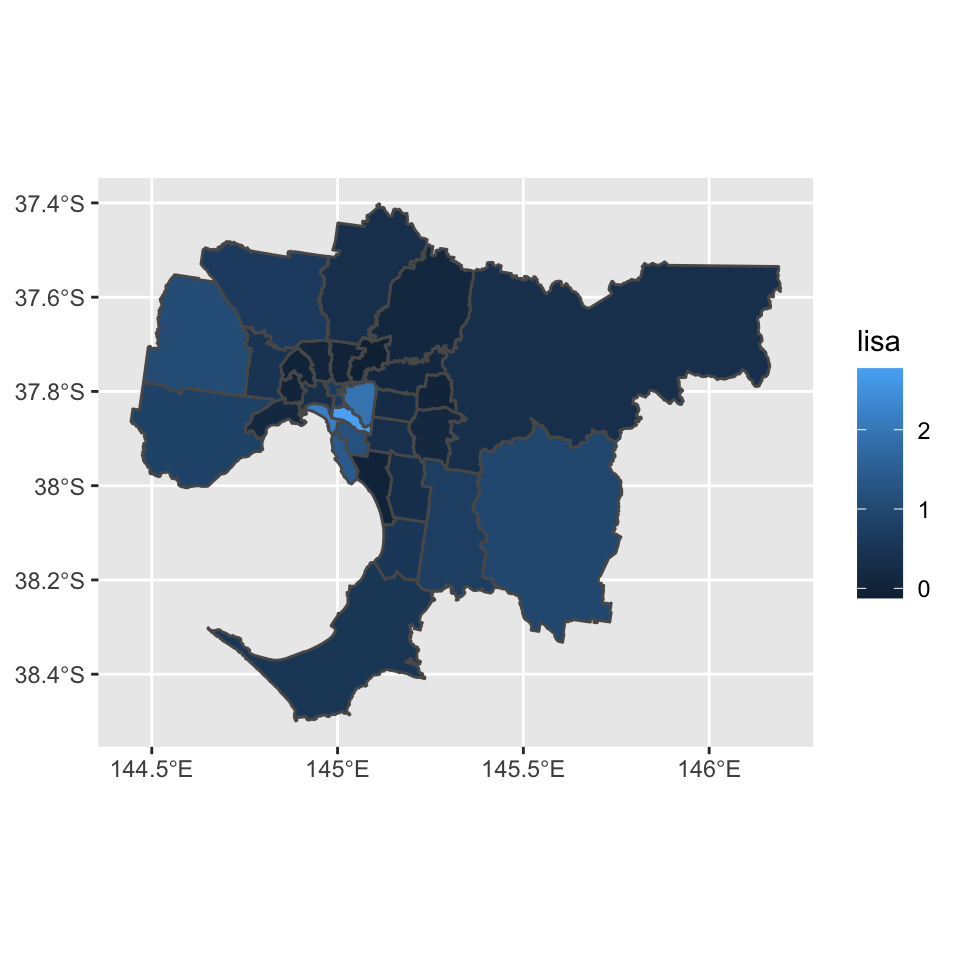
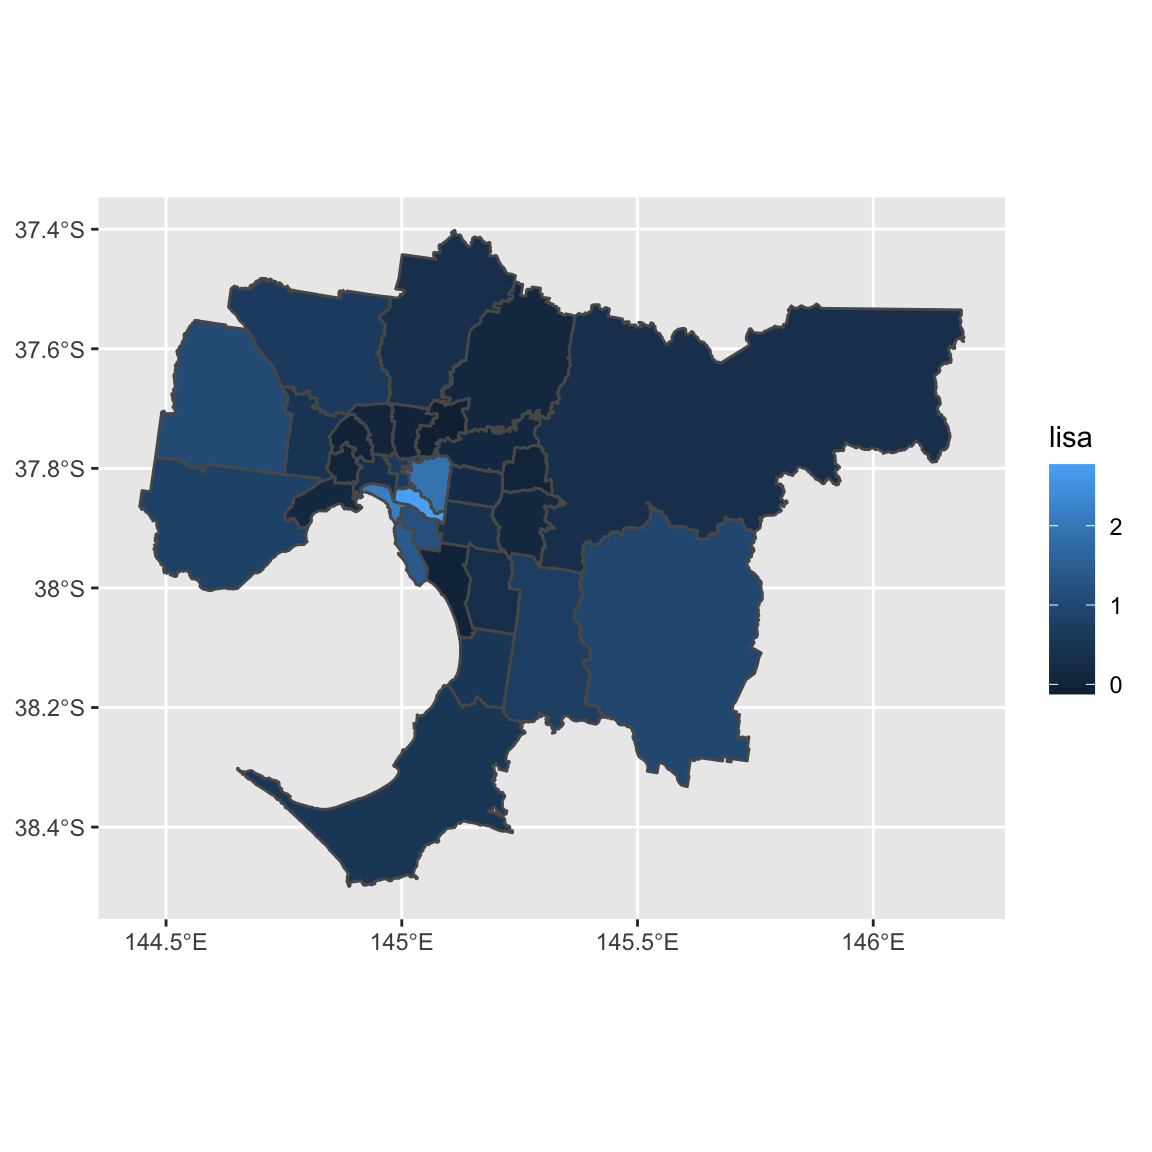
Dec 4th

diff --git a/Week5.html b/Week5.html
@@ -430,9 +430,9 @@ gmellisa$pvalue = resI[,5]
 ### Spatial plots with LISA value
 library(ggplot2)
 ggplot() + geom_sf(data=gmellisa, aes(fill = lisa))</code></pre>
-<p><img src="Week5_files/figure-html/unnamed-chunk-5-1.png" width="480" style="display: block; margin: auto;" /></p>
+<p><img src="Week5_files/figure-html/unnamed-chunk-5-1.png" width="576" style="display: block; margin: auto;" /></p>
 <pre class="r"><code>ggplot() + geom_sf(data=gmellisa, aes(fill = pvalue))</code></pre>
-<p><img src="Week5_files/figure-html/unnamed-chunk-5-2.png" width="480" style="display: block; margin: auto;" /></p>
+<p><img src="Week5_files/figure-html/unnamed-chunk-5-2.png" width="576" style="display: block; margin: auto;" /></p>
 <p>Suppose we want to know which LGAs have significant local spatial autocorrelation (<span class="math inline">\(\alpha = 0.05\)</span>).</p>
 <pre class="r"><code>gmellisa$name2[gmellisa$pvalue &lt; 0.05]</code></pre>
 <pre><code>## [1] &quot;Bayside&quot;      &quot;Boroondara&quot;   &quot;Casey&quot;        &quot;Glen Eira&quot;    &quot;Melton&quot;      
@@ -441,8 +441,9 @@ ggplot() + geom_sf(data=gmellisa, aes(fill = lisa))</code></pre>
 <p>You can also highlight these cities.</p>
 <pre class="r"><code>gmellisa2 = gmellisa[gmellisa$pvalue &lt; 0.05, ]
 ggplot() + geom_sf(data=gmellisa, aes(fill = pvalue)) + 
-  geom_sf(data = gmellisa2, color = &quot;red&quot;, alpha = 0)</code></pre>
-<p><img src="Week5_files/figure-html/unnamed-chunk-7-1.png" width="480" style="display: block; margin: auto;" /></p>
+  geom_sf(data = gmellisa2, color = &quot;red&quot;, alpha = 0) + 
+  geom_sf_label(data = gmellisa2, aes(label = name2))</code></pre>
+<p><img src="Week5_files/figure-html/unnamed-chunk-7-1.png" width="768" style="display: block; margin: auto;" /></p>
 </div>
 
 
